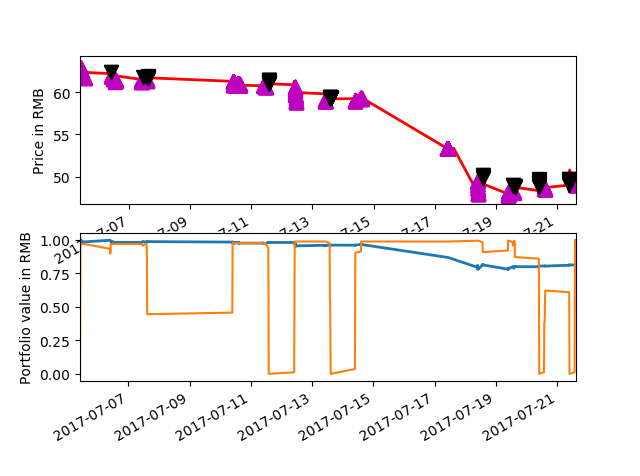
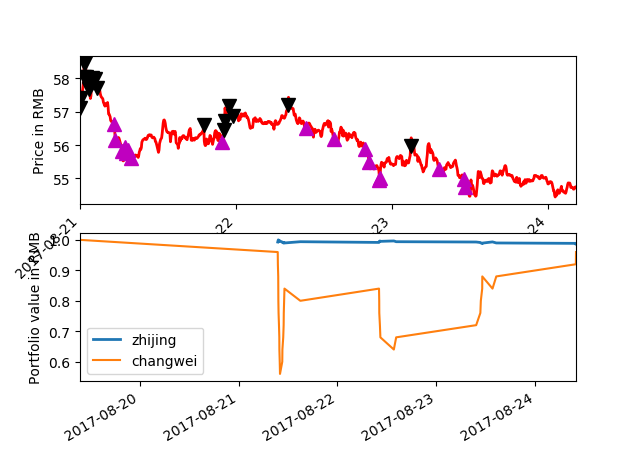
strategy update

diff --git a/python_strategy/ui.py b/python_strategy/ui.py
@@ -411,13 +411,13 @@ def DrawHist(pl, shs):
             #出击率
             if len(shs) != 0:
                 v = float(go_count)/ float(len(shs))
-                print("trade rato:%.2f%%"%(v*100))
+                #print("trade rato:%.2f%%"%(v*100))
             #出击后胜率
             if go_count>0:
                 v = float(len(shs[shs>0]))/float(go_count)
-                print("win rato: %.2f%%"%(v*100))
+                #print("win rato: %.2f%%"%(v*100))
         pl.show()
-        ShowHitCount(shs)
+        #ShowHitCount(shs)
 
 def ShowTradeResult(pl, bars, signals, returns, signal_dependent_num=0):
     """绘制策略的交易结果
@@ -481,6 +481,7 @@ def ShowTradeResult2(pl, bars, signals, zhijin, changwei,signal_dependent_num=0,
     # Plot two charts to assess trades and equity curve
     pl.figure
     #fig = pl.figure()
+    pl.close()
     fig = pl.gcf()
     fig.patch.set_facecolor('white')     # Set the outer colour to white
     ax1 = fig.add_subplot(211,  ylabel='Price in RMB')
@@ -515,9 +516,10 @@ def ShowTradeResult2(pl, bars, signals, zhijin, changwei,signal_dependent_num=0,
 
     # Plot the equity curve in dollars
     ax2 = fig.add_subplot(212, ylabel='Portfolio value in RMB')
-    zhijin.plot(ax=ax2, lw=2.)
+    if len(zhijin)>0:
+        zhijin.plot(ax=ax2, lw=2.)
     legends = ['zhijing']
-    if changwei is not None:
+    if changwei is not None and len(changwei)>0:
         changwei.plot(ax=ax2)
         legends.append('changwei')
     ax2.legend(legends)
@@ -716,13 +718,14 @@ def weekday_candlestick(ohlc_data, ax, fmt='%b %d', freq=7, **kwargs):
 
 class AsynDrawKline(object):
     class enum:
-        trade_bSell = 'trade_bSell'
-        trade_price = 'trade_price'
+        trade_bSell = '买0卖1'
+        trade_price = '委托价格'
     @staticmethod
     def drawKline(df, df_trades=None):
         """画k线图, 异步模式
-        df : 日线或5分钟线
-        df_trades : 字段同上, 增加字段trade_bSell, trade_price, 见enum, 交易点
+        需要注意的是如果df比较大的话，那么速度是相当的慢, 一般5日线10天的数据较好
+        df : 日线或5分钟线, cols('ohlcv')
+        df_trades : 交易点, 需要包含字段cols('trade_bSell', ['trade_price']), 见enum, []意思为不是必须
         """
 
         def df_to_matplotformat(df):
@@ -754,7 +757,9 @@ class AsynDrawKline(object):
         #plt.xlabel("time")
         #plt.ylabel("price")
         #mpf.candlestick_ohlc(ax,quotes,width=.001,colorup='r',colordown='green')
-        weekday_candlestick(quotes, ax, fmt='%b %d %H:%M', freq=10, width=0.01, colorup='r',colordown='green')
+        #调整下面日期显示的密度
+        freq = len(quotes)/20
+        weekday_candlestick(quotes, ax, fmt='%b %d %H:%M', freq=freq, width=0.01, colorup='r',colordown='green')
         #plt.grid(True)    
 
         #画交易点
@@ -771,7 +776,7 @@ class AsynDrawKline(object):
                 a[:] = price
                 index = len(df[:index])
                 a[:index] =np.nan
-                bSell = row[AsynDrawKline.enum.trade_bSell]
+                bSell = int(row[AsynDrawKline.enum.trade_bSell])
                 clr = agl.where(bSell, 'g', 'r')
                 plt.plot(a, color=clr, linewidth=0.25)
                 plt.text(len(quotes),price, str(price), color=clr)   
@@ -782,6 +787,38 @@ class AsynDrawKline(object):
         plt.draw()
         plt.pause(0.1)    
 
+def draw3d(df=None, titles=None, datas=None):
+    """画3d"""
+    #该行在c运行时会报错
+    from mpl_toolkits.mplot3d.axes3d import Axes3D
+    
+    def genDf():
+        df = pd.DataFrame([])
+        for i in range(3):
+            n = agl.array_random(100)
+            df[i] = n
+        return df
+    if df is None:
+        df = genDf()
+    assert(len(df.columns)>=3)
+    X, Y, Z = np.array(df[df.columns[0]]), np.array(df[df.columns[1]]), np.array(df[df.columns[2]])
+    fig = plt.figure(figsize=(8,6))
+    ax = fig.add_subplot(1, 1, 1, projection='3d')
+    p = ax.scatter(X, Y, Z)
+    
+    if datas is not None:
+        for i in range(len(datas)):
+            df = datas[i][0]
+            x, y, z = np.array(df[df.columns[0]]), np.array(df[df.columns[1]]), np.array(df[df.columns[2]])
+            c = str(datas[i][1])
+            ax.scatter(x,y,z, c=c)
+    
+    if titles is not None and len(titles)>=3:
+        ax.set_xlabel(titles[0])
+        ax.set_ylabel(titles[1])
+        ax.set_zlabel(titles[2])    
+            
+    plt.show()
 
 class MyTest(unittest.TestCase):
     def _test_DrawTs(self):
@@ -790,14 +827,14 @@ class MyTest(unittest.TestCase):
         fenshi = stock.getFenshiDfUseRedis(code, date[0],date[1])
         print(fenshi)
         DrawTs(pl, ts=fenshi['p'])
-    def test_ShowTradeResult(self):
+    def _test_ShowTradeResult(self):
         #testShowTradeResult()
         testTradeResult_Boll()
     def _test_AsynDrawKline(self):
         code = '300033'
-        start_day = '2017-3-1'
-        df = stock.getHisdatDataFrameFromRedis(code, start_day)
-        df = stock.getFiveHisdatDf(code, start_day='2017-7-20')
+        start_day = '2017-8-25'
+        #df = stock.getHisdatDataFrameFromRedis(code, start_day)
+        df = stock.getFiveHisdatDf(code, start_day=start_day)
         import account
         account = account.LocalAcount(account.BackTesting())
         #随机找三个交易点
@@ -812,7 +849,9 @@ class MyTest(unittest.TestCase):
             AsynDrawKline.drawKline(df[i*10:], df_trades)
 
         plt.ioff()
-        plt.show()  #最后停在画面处， 没有的话进程结束
+        #plt.show()  #最后停在画面处， 没有的话进程结束
+    def test_3d(self):
+        draw3d()
 
 if __name__ == "__main__":
     unittest.main()    

diff --git a/python_strategy/strategy/boll_pramid.py b/python_strategy/strategy/boll_pramid.py
@@ -56,6 +56,14 @@ class Strategy_Boll_Pre(qjjy.Strategy):
 	codes = ['300033']	    #自己想交易的股票
 	return code in codes
     
+    def OnFirstRun(self):
+	"""回测调用函数， 在第一个bar时调用， 先建立底仓"""
+	code = self.data.get_code()
+	df_fenshi = self.data.get_fenshi(code)
+	#这里取不到开盘价， 用昨收盘代替
+	open_price = float(df_fenshi.iloc[-1]['p'])
+	#print o
+	self._getAccount()._buy(code, open_price, mydatas['lowerhold'][0], self.getCurTime())    
     def Run(self):
 	"""每个股票调用一次该函数, 调用后会释放， 因此不能使用简单的全局变量， 而需要使用redis来持续化
 	另外， 交易接口要慎用， 比如列表查询， 可保存至redis，
@@ -134,7 +142,8 @@ class Strategy_Boll_Pre(qjjy.Strategy):
 	Order_At_Boll()
 	
 	#tick report
-	self._log('call tick report')
+	if self.is_backtesting:
+	    self._getAccount().TickReport(df_five_hisdat, 'win')
 	return	
 
     #----------------------------------------------------------------------
@@ -163,13 +172,18 @@ class Strategy_Boll_Pre(qjjy.Strategy):
 		    return False
 	    
 	#开放为实盘下单
-	return self._getAccount().Order(bSell, code, price, num)
+	if self.is_backtesting:
+	    #得到上一个交易价格， 确定当前价格与之前的价格有一个差距
+	    df_chengjiao = self._getAccount().ChengJiao()
+	    pre_price = df_chengjiao['成交价格'][-1]
+	    chajia = mydatas['chajia'][0]
+	    if abs(price-pre_price)/price > chajia:
+		return self._getAccount().Order(bSell, code, price, num)
 	return True
 
     def Report(self, start_day, end_day):
 	"""回測报告"""
 	self._getAccount().Report(end_day)
-	#return
 	#绘制图形
 	#end_day = help.MyDate.s_Dec(end_day, 1)
 	bars = stock.CreateFenshiPd(self.code, start_day, end_day)
@@ -196,10 +210,7 @@ class Strategy_Boll_Pre(qjjy.Strategy):
 	trade_positions = np.array(bars['positions'])
 	ui.TradeResult_Boll(self.code, bars, trade_positions, \
 	    stock.GuiYiHua(df_zhijing['资产']), changwei)
-	    
-	#未来直接使用python的绘图功能
-	#import os
-	#os.system('start http://localhost/training')
+
 	    
 def main(args):
     #agl.LOG('sdf中')

diff --git a/python_strategy/account.py b/python_strategy/account.py
@@ -255,9 +255,26 @@ class LocalAcount(AccountDelegate):
         shizhi = num*close
         print('如果持股不动 市值:%f,总资产:%f'%(shizhi, money+shizhi))
 
-
+    #尝试使用tick ui
+    def TickReport(self, df_five_hisdat, ShowStyle="all"):
+        """ShowStyle: str 显示风格 all|win
+        all=>显示全部	
+        win=>显示一部分, 也就是切割数据，保留后面的一部分
+        """
+        import ui
+        df = df_five_hisdat
+        df_trade = self.ChengJiao()
+        if ShowStyle == "win":
+            df = df[-50:]
+            df_trade = df_trade[df.index[0]:]
+            if len(df) % 10 == 0:
+                ui.AsynDrawKline.drawKline(df, df_trade)
+        else:
+            if len(df) % 50 == 0:
+                ui.AsynDrawKline.drawKline(df, df_trade)
 class mytest(unittest.TestCase):
     def test_simple(self):
+        import agl
         print(agl.getFunctionName())
         account = LocalAcount(BackTesting())
         code = '300033'

diff --git a/python_strategy/stock.py b/python_strategy/stock.py
@@ -1182,6 +1182,7 @@ def getHisdatDf(code, start_day='',end_day='',is_fuquan=False ):
     df = calc_fuquan_use_fenhong(df, df_fenhong)    
     return df
 def getFiveHisdatDf(code, start_day='', end_day=''):
+    """return: df col('ohlcu')"""
     return mysql.getFiveHisdat(code,start_day,end_day)
 def IsShangHai(code):
     """判断股票代码属于那个市场
@@ -2529,6 +2530,9 @@ SELL:=HHV(KMA,4)-KMA>THRESHOLD;
             codes.append(dapan_code)
         for code in pyprind.prog_bar(codes, title='all codes kline dump'):
             df = mysql.getHisdat(code)
+            #碰到新股没数据
+            if len(df) == 0:
+                continue
             one = ths.createThsOneCode(code)
             #复权计算
             df_fenhong = one.get_fenhong()

diff --git a/python_strategy/backtest_policy.py b/python_strategy/backtest_policy.py
@@ -114,9 +114,9 @@ def test_strategy(codes, strategy_name):
             """确定是交易日
             return: (d1, d2)"""
             if dtype == backtest_runner.BackTestPolicy.enum.hisdat_mode:
-                df = stock.getHisdatDataFrameFromRedis(code, start_day=d1)
+                df = stock.getHisdatDataFrameFromRedis(code, d1, d2)
             else:
-                df = stock.getFenshiDfUseRedis(code, d1, d2)
+                df = stock.getFenshiDfUseRedis(code, d1,d2)
             d2 = agl.datetime_to_date(df.index[-1])
             if agl.DateTimeCmp(d1, agl.datetime_to_date(df.index[0])) <0:
                 d1 =  agl.datetime_to_date(df.index[0])

diff --git a/python_strategy/backtest_runner.py b/python_strategy/backtest_runner.py
@@ -121,7 +121,7 @@ def main(args):
     agl.tic()
     BackTestPolicy.Test()
     agl.toc()
-    print "end"
+print("end")
     
 if __name__ == "__main__":
     try:
